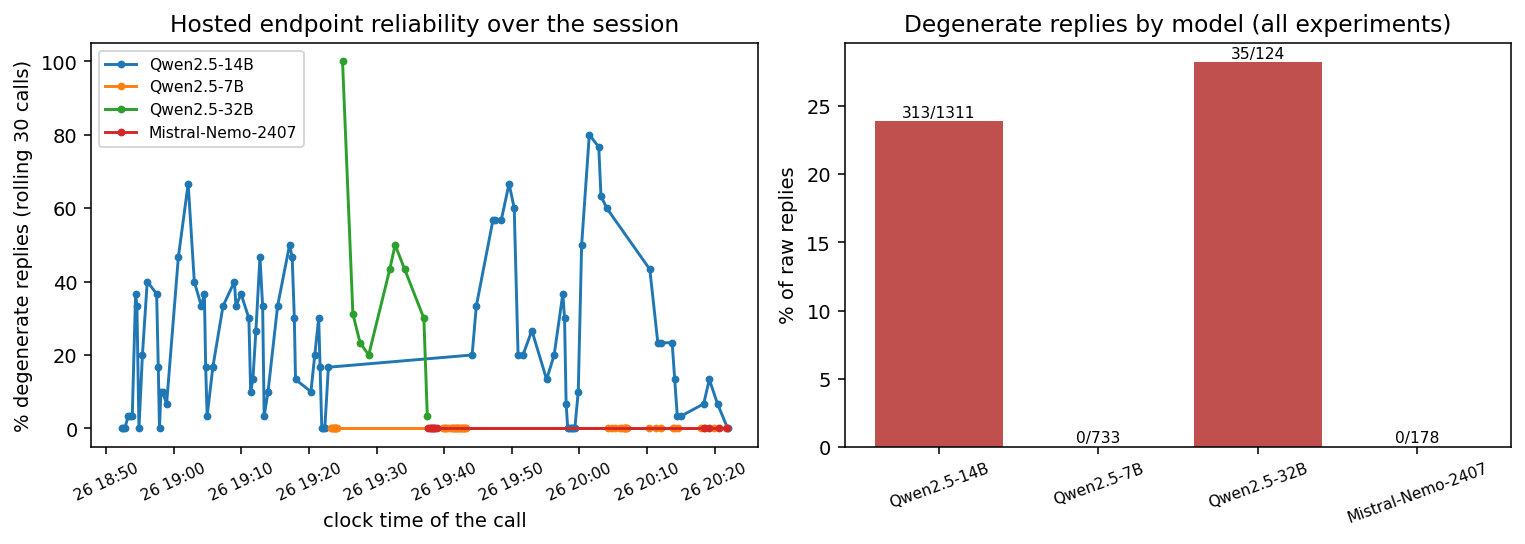
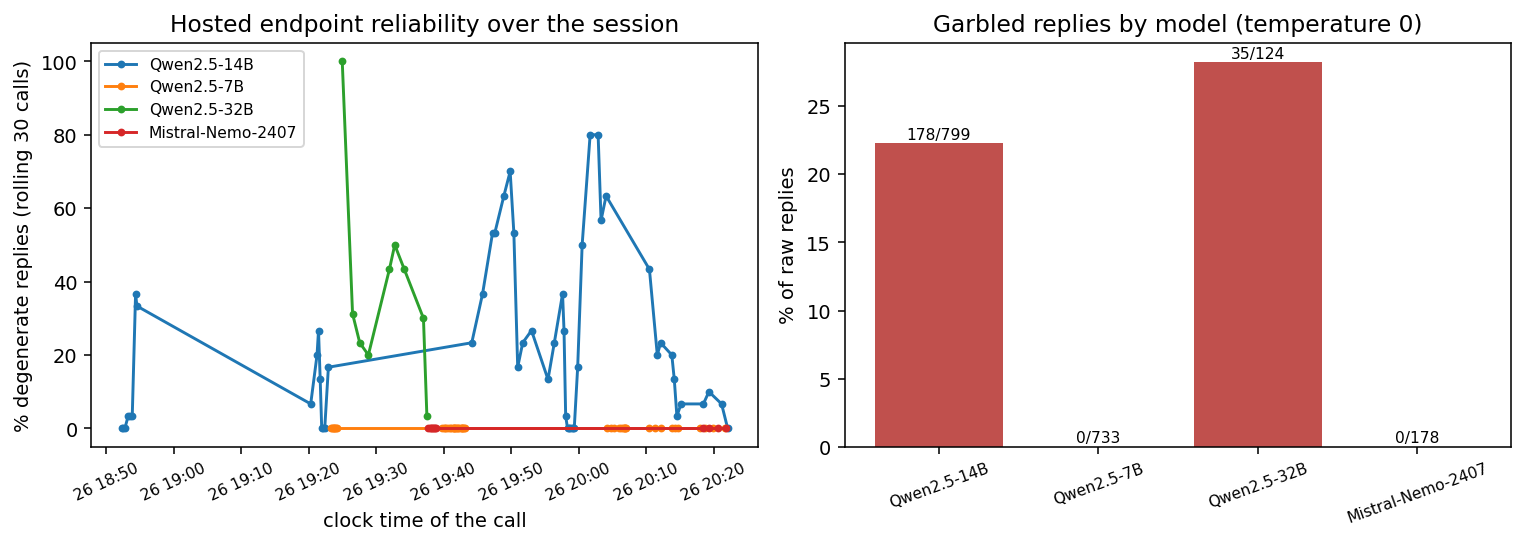
docs: say plainly that E6 overrode E5's pre-registered decision; reliability at temperature 0 only; update docs/17 and docs/18
- docs/21 Deviations item 8, Conclusion 2 and the TEAM.md row now state that the pre-registered rule selected 7B/short,
  that declining to recommend it (and keeping the 14B default, which itself fails E6's first criterion) is a judgement.
- The reliability figure and numbers use temperature-0 calls only (14B 178 of 799 garbled, not the pooled 313 of 1,311).
- docs/17 gets an AI-experiments section and current limitations; docs/18 lists the later work.

Claude-Session: https://claude.ai/code/session_011JEi6CEN7aiecgdZXxwiee

diff --git a/scripts/analyze_experiments.py b/scripts/analyze_experiments.py
@@ -432,7 +432,7 @@ def figures(summary, data):
 
             axes[1].text(i, 100 * timeline['overall'][n]['rate'] + 0.3, f"{timeline['overall'][n]['bad']}/{timeline['overall'][n]['seen']}", ha='center', fontsize=8)
 
-        axes[1].set_ylabel('% of raw replies'); axes[1].set_title('Degenerate replies by model (all experiments)')
+        axes[1].set_ylabel('% of raw replies'); axes[1].set_title('Garbled replies by model (temperature 0)')
 
         axes[1].tick_params(axis='x', labelrotation=20, labelsize=8)
 
@@ -539,28 +539,18 @@ def main():
     summary['invariant_verdicts_unchanged'] = invariant(all_calls) if all_calls else None
 
     if all_calls:
-
+        # Temperature 0 only: E1 also ran the 14B model at higher temperatures, which garble more, and pooling them
+        # would flatter the models that were only run at 0.
         by_model = defaultdict(list)
-
-        for r in sorted(all_calls, key=lambda r: r['ts']):
-
+        for r in sorted((r for r in all_calls if r['temperature'] == 0), key=lambda r: r['ts']):
             for t in r['raw_replies']:
-
                 by_model[r['model'].split('/')[-1].replace('-Instruct', '')].append((r['ts'], is_degenerate(t)))
-
         series, overall = {}, {}
-
         for m, pts in by_model.items():
-
             overall[m] = {'bad': sum(b for _, b in pts), 'seen': len(pts), 'rate': sum(b for _, b in pts) / len(pts)}
-
-            step = 15
-
-            series[m] = [(pts[i][0], statistics.mean(b for _, b in pts[max(0, i - 29):i + 1])) for i in range(0, len(pts), step)]
-
+            series[m] = [(pts[i][0], statistics.mean(b for _, b in pts[max(0, i - 29):i + 1])) for i in range(0, len(pts), 15)]
         data['timeline'] = {'series': series, 'overall': overall}
-
-        summary['degenerate_replies_by_model'] = overall
+        summary['degenerate_replies_by_model_temperature_0'] = overall
     template = {'note': 'Template answer = the engine explanation itself: it states every reason and adds nothing, so it is '
                         'useful by construction. It is the safe floor the model has to beat, not a competitor on accuracy.',
                 'cases': len(load_cases('tuning'))}

diff --git a/docs/21_Experiments.md b/docs/21_Experiments.md
@@ -84,6 +84,7 @@ Recorded as they happened. Items 1 to 5 were decided after seeing E1 to E4 and b
 5. **E3 ran on two models.** On Qwen2.5-7B, the model with the highest useful-answer rate in E2 (as registered), and additionally on Qwen2.5-14B (exploratory). E4 used the 7B model.
 6. **Garbled-text guard.** Added between E5 and E6 (see Results, E2). It is part of the production safety net, not of the experiment design.
 7. **Runner change.** After E4 the runner gained an interleaved schedule (configurations alternate call by call) because sequential runs on a drifting endpoint confound the comparison. E1 to E4 ran sequentially.
+8. **E5 selected a setting that we then declined to recommend.** The pre-registered rule selected Qwen2.5-7B with the `short` prompt, and rule 4 says a winner that meets rule 3 is recorded as the recommendation. We instead ran E6 and kept the default. The reason: that setting's answers restate the engine's sentence (6.5 words, 0% citing an evidence value), which the primary metric cannot penalize. Keeping the 14B default is a judgement, not a result of the pre-registered rule, and the default itself fails E6's first criterion.
 
 **E5 as it will be run.** Arms: the current default (Qwen2.5-14B, temperature 0, prompt v1.3.0) against Qwen2.5-7B, temperature 0, `short` prompt, which had the highest useful-answer rate on the tuning set and meets decision rule 3 there. Twelve fresh cases, **8 repeats** per arm (96 calls each, instead of the 5 planned, to narrow the intervals), interleaved. The default is only replaced, as a recommendation with a new frozen run and a version note, if the challenger beats it on the fresh cases by at least 10 percentage points of useful-answer rate with non-overlapping 95% Wilson intervals, and its injection resistance is not lower. Otherwise the default stays.
 
@@ -119,7 +120,7 @@ E5 confirmed the pre-registered winner on paper (Qwen2.5-7B with the `short` pro
 
 Other figures: `e1_outcomes.png`, `e1_rejection_reasons.png`, `e1_stability.png`, `e1_latency.png`, `e1_injection.png`, `e1_by_rule.png` (all in `docs/figures/`).
 
-- **Temperature 0 wins on every measure** and is the lowest level, so decision rules 1 and 2 both pick it: no change to the default. 0.2 is statistically indistinguishable from 0 on the primary metric; 0.5 to 1.0 are clearly worse on live rate (78 to 82% against 93%) and on the lenient metric.
+- **Temperature 0 wins on every quality measure** (median latency is flat, 3.1 to 3.9 s, and 0.2 is fractionally faster) and is the lowest level, so decision rules 1 and 2 both pick it: no change to the default. 0.2 is statistically indistinguishable from 0 on the primary metric; 0.5 to 1.0 are clearly worse on live rate (78 to 82% against 93%) and on the lenient metric.
 - **H2 holds.** Raising the temperature makes the model derail more often: the share of garbled raw replies rises from 10% at 0 to 32% at 0.5. It does not buy anything back.
 - **H1 is only half true.** Repeat stability falls steadily with temperature (word overlap 0.68 down to 0.33), but **temperature 0 is not deterministic on the hosted endpoint**: only 1 of 30 cases gave the same text on all three repeats, and the most common answer covered 51% of repeats. Do not promise reproducible wording from a hosted model, even at 0. Verdicts are unaffected because they never come from the model.
 - **Temperature does not change injection resistance.** About 3 or 4 of the roughly 55 to 63 judged raw replies followed an injected instruction at every level (93 to 95% resisted). The pipeline's checks caught them all; this measures the model alone.
@@ -139,7 +140,7 @@ Other figures: `e1_outcomes.png`, `e1_rejection_reasons.png`, `e1_stability.png`
 
 - **Bigger is not better here.** The 32B model was worst: 21 of its replies were not valid JSON and 3 calls timed out.
 - **The ranking depends on the omission check.** On the pre-registered check the 7B model leads by 12 points, but that check counts a paraphrase of an engine reason as an omission, and the 7B model rarely paraphrases: it copies. On the lenient check the 14B, Mistral and 7B are within 3 points of each other. Of 30 flagged 14B answers from E1 that we read, 23 were fine paraphrases (an assistant reading, not human scoring).
-- **The hosted 14B and 32B endpoints derail; 7B and Mistral did not.** 313 of 1,311 raw 14B replies and 35 of 124 raw 32B replies were garbled (mixed-language gibberish or a long run of one token), against 0 of 733 for 7B and 0 of 178 for Mistral.
+- **The hosted 14B and 32B endpoints derail; 7B and Mistral did not.** at temperature 0, 178 of 799 raw 14B replies (22%) and 35 of 124 raw 32B replies (28%) were garbled (mixed-language gibberish or a long run of one token), against 0 of 733 for 7B and 0 of 178 for Mistral. (Only temperature-0 calls are pooled here; the higher temperatures of E1 garble more, see E1.) The 14B rate itself varied a lot over the session: roughly 11% outside E3 and 43% during two of the three E3 runs.
 
 ![Reliability of the hosted models over the session](figures/reliability_degenerate_replies.png)
 
@@ -200,8 +201,8 @@ Throughput scales with workers up to 8 with no rate limiting or timeouts, and th
 
 ## Conclusions and recommendations
 
-1. **Keep temperature 0.** It is best or tied on every measure in E1 and has the lowest garble rate. Do not raise it for "more natural" wording.
-2. **Do not replace the default model or prompt on this evidence.** The formal winner (7B, short prompt) wins by restating the engine's sentence, and no fluent candidate passed the E6 rule. Which trade-off a reviewer prefers (a fluent explanation that sometimes derails and is caught, or a terse restatement that never does) is a product decision the metrics cannot make. Manual 0/1 scoring by a person (`outputs/llm_manual_scorecard.csv`) is the missing evidence.
+1. **Keep temperature 0.** It is best or tied on every quality measure in E1 and has the lowest garble rate. Do not raise it for "more natural" wording.
+2. **Do not replace the default model or prompt on this evidence. This is a judgement that overrides the pre-registered rule, and it should be read as one.** E5 met decision rule 3 (7B with the short prompt: +11.5 points, non-overlapping intervals, better injection resistance), and rule 4 then says to record that setting as the recommendation. We did not, because its answers restate the engine's sentence and cite no evidence value, and we added E6 to test that. The default itself fails E6's first criterion (3 garbled raw replies), so it stays as the status quo and not because it passed. The formal winner (7B, short prompt) wins by restating the engine's sentence, and no fluent candidate passed the E6 rule. Which trade-off a reviewer prefers (a fluent explanation that sometimes derails and is caught, or a terse restatement that never does) is a product decision the metrics cannot make. Manual 0/1 scoring by a person (`outputs/llm_manual_scorecard.csv`) is the missing evidence.
 3. **The model matters more than the temperature.** The 32B model was worst; the 7B and Mistral models never garbled. If the garble rate of the hosted 14B endpoint does not improve, Mistral-Nemo is the fluent alternative to test next, with a prompt aimed at naming a verification step (the worked example did that for the 7B model).
 4. **Hosted endpoints drift.** The same 14B configuration scored 78.7%, 76.9% and 59.8% useful in three runs about half an hour apart. Compare configurations by interleaving them, and never read a difference of a few points from separate runs.
 5. **The safety net earned its keep, and had one hole.** Every garbled reply that failed to parse was replaced by the template, and the finding never changed. The three that parsed got through; the guard now stops them.

diff --git a/docs/17_Evaluation_Report.md b/docs/17_Evaluation_Report.md
@@ -29,7 +29,7 @@ python scripts/run_llm_explanations.py                   # live model run (needs
 
 - **No split was held out from us.** Labels for development, validation and stress were all available and were used to check the engine. The rule logic was written from `docs/04_Rulebook.md`, the schema and the handbook's worked cases (`tests/test_worked_cases_equivalence.py` checks all 150 worked-case results), but we cannot claim the public splits were used only for validation.
 - **The mentor-held set was not available.** Every accuracy figure below is therefore a measure of agreement on data we developed against, not an estimate of performance on unseen claims.
-- Nothing was tuned on hidden labels, and no label file is read by the engine at run time. The AI explanation prompt was tuned only after inspecting live answers on the public exercise cases, and that change is unverified live (see AI evaluation).
+- Nothing was tuned on hidden labels, and no label file is read by the engine at run time. The AI explanation prompt was tuned only after inspecting live answers on the public exercise cases, and that change was later re-run live under prompt v1.3.0 (see AI evaluation) and compared across temperatures, models and prompts in `docs/21_Experiments.md`.
 
 ## Metrics
 
@@ -98,6 +98,26 @@ All of these passed `validate_explanation` and kept `needs_human_review: true`. 
 
 An independent oracle written only from the rulebook agrees with the engine on all 9,000 public results and on about 111,000 generated claims, and 123 hand-derived boundary cases pass. The exercise found and fixed real defects (precedence of a proven violation over a missing input in R009 and R013, exact money comparison, Python-version-dependent dates, runner and ingestion aborts, and the AI trust boundary). Method, findings, the readings adopted where the rulebook is silent, and what is still not covered are in `docs/19_Stress_Testing_and_Judging_Coverage.md`. The 600 public claims are unaffected: still 1.0 on all three splits.
 
+## AI experiments (temperature, model, prompt)
+
+
+
+This is the "AI ablations" part of the evaluation. Full design, data, figures, deviations and threats to validity are in `docs/21_Experiments.md`; raw replies are in `experiments/raw/`. Headlines, from 2,136 live calls on 2026-09-26:
+
+
+
+- No setting ever changed a deterministic finding (hash checked before and after every call).
+
+- **Temperature 0 is best** on every quality measure; higher temperatures make the model derail more (garbled raw replies 10% at 0, 32% at 0.5). Temperature 0 is still not deterministic on the hosted endpoint.
+
+- The model matters more than the temperature: Qwen2.5-7B and Mistral-Nemo never garbled, the 32B model was worst, the 14B default garbled about a fifth of its raw replies.
+
+- The pre-registered rule selected Qwen2.5-7B with a short prompt (100% "useful" on fresh cases), but its answers restate the engine's sentence and cite no evidence values. We did **not** adopt it, a judgement that overrides the rule, and the default stays. Human scoring is the missing evidence.
+
+- The experiments exposed a gap in the safety net (garbled but schema-valid explanations were accepted); the guard now rejects them.
+
+
+
 ## Human review and security
 
 Evidence is in the tests (364 passing) and the frozen runs:
@@ -117,5 +137,5 @@ Evidence is in the tests (364 passing) and the frozen runs:
 - FHIR ingestion is a teaching subset: one Claim per Bundle, no Encounter resource exists in the pack (the adapter reports any Encounter a bundle does carry, in `report['encounters']`, but the closed claim schema has no slot for it and no rule uses it), no terminology or profile validation, authorization details unavailable.
 - Audit log is tamper-evident, not immutable; reviewer identity is self-declared; no authentication.
 - The review page is an offline HTML file: decisions move through a downloaded JSONL, not a server.
-- AI explanation: unreliable provider, no human scoring yet, three known classes of unsupported statement (one unguarded), prompt v1.1.0 unverified live.
-- Next steps: human scoring of the 13 live answers with `outputs/llm_manual_scorecard.csv`; a live re-run under prompt v1.1.0; a rule-level guard for "asserts validity of an unevaluated field"; a server behind the review page with authenticated reviewers; external anchoring of the audit head hash.
+- AI explanation: the hosted endpoint is unreliable (at temperature 0 the 14B model garbled about a fifth of its raw replies; the safety net replaces them, and a garbled-text guard was added after three slipped through), no human scoring yet, and an answer can still add an unsupported "this line matches" claim about a field the finding does not mention, which neither check catches. Prompt v1.3.0 was verified live (recorded runs and `docs/21`).
+- Next steps: human scoring of the 13 live answers with `outputs/llm_manual_scorecard.csv`; manual 0/1 scoring of the E5 and E6 answers to settle the model and prompt choice (`docs/21`); a rule-level guard for "asserts validity of an unevaluated field"; a server behind the review page with authenticated reviewers; external anchoring of the audit head hash.

diff --git a/TEAM.md b/TEAM.md
@@ -92,12 +92,12 @@ We ran six experiments (2,136 live calls, 2026-09-26) on the Featherless.ai endp
 | Question | Answer | Evidence |
 |---|---|---|
 | Does any setting change a verdict? | **No.** The finding was hashed before and after each of 2,136 calls; identical everywhere | `experiments/summary.json` |
-| Which temperature? | **0.** Best on every measure; live answers fall from 93% to 78 to 82% at 0.5 to 1.0 and garbled replies rise from 10% to 32% | E1, ![E1](docs/figures/e1_useful_vs_temperature.png) |
+| Which temperature? | **0.** Best on every quality measure; live answers fall from 93% to 78 to 82% at 0.5 to 1.0 and garbled replies rise from 10% to 32% | E1, ![E1](docs/figures/e1_useful_vs_temperature.png) |
 | Is temperature 0 deterministic? | **No.** On the hosted 14B model only 1 of 30 cases repeated word for word; the wording still varies | E1 |
-| Which model? | Depends on what you value. The 7B model never garbles and is fastest (1.9 s), Mistral-Nemo never garbles and is fluent, the 14B default is fluent but derails in about a quarter of raw replies, the 32B model is worst | E2, ![reliability](docs/figures/reliability_degenerate_replies.png) |
+| Which model? | Depends on what you value. The 7B model never garbles and is fastest (1.9 s), Mistral-Nemo never garbles and is fluent, the 14B default is fluent but garbles about a fifth of its raw replies at temperature 0, the 32B model is worst | E2, ![reliability](docs/figures/reliability_degenerate_replies.png) |
 | Which prompt? | A worked example makes a small model write fuller explanations (names a next step in 92% of answers) but lowers its injection resistance to 88.9%; a short prompt makes it copy the template | E3 |
 | How many parallel calls? | 8. Throughput rises from 29 to 207 calls per minute with no rate limiting | E4 |
-| Should we switch the default? | **No.** The pre-registered winner (7B, short prompt, 100% useful) wins by restating the engine's own sentence; no fluent candidate passed the follow-up rule | E5, E6 |
+| Should we switch the default? | **No, and this overrides the pre-registered rule, so read it as a judgement.** The rule selected 7B with the short prompt (100% useful). We declined to recommend it because its answers restate the engine's own sentence and never cite an evidence value, added a follow-up experiment, and no fluent candidate passed that either. The default stays as the status quo, not because it passed: it fails the follow-up's first test (garbled replies) | E5, E6 |
 
 What the experiments changed in the product: the garbled-output guard. Three garbled explanations (valid JSON, correct citations) passed the schema and grounding checks and were shown as normal live answers. `check_grounding` now rejects text in another script, a replacement character, and long repetitions, tested against about 1,500 recorded answers.
 

diff --git a/docs/18_Contribution_Log.md b/docs/18_Contribution_Log.md
@@ -25,7 +25,7 @@ session models are not recorded in the repository. A separate "advisor" reviewer
 consulted at planning time and before large design choices, and the `superpowers` workflow
 skills (brainstorm -> written spec -> written plan -> execute) were used.
 
-**What the AI wrote, under the team lead's direction (2026-09-21 to 2026-09-23):**
+**What the AI wrote, under the team lead's direction (2026-09-21 to 2026-09-26):**
 
 | Area | AI-authored | Team-lead decisions that steered it |
 |---|---|---|
@@ -35,6 +35,10 @@ skills (brainstorm -> written spec -> written plan -> execute) were used.
 | Audit log, review workflow (`audit_log.py`, `review_workflow.py`) | all code, tests, design note | asked to finish review workflow, audit trail and reports |
 | Ingestion (`ingest.py`, `fhir_adapter.py`) | all code, tests, comparison script | supplied the four graded deliverables that ingestion must meet |
 | Evaluation report, this log | drafted | to be reviewed and completed by the team |
+| Stress testing (2026-09-24 to 2026-09-26): independent oracle, boundary table, differential and hostile-input suites | all code and tests | asked to recheck everything and stress the rules against what the judges score |
+| Security audit and red team (2026-09-26): OWASP mapping, fixes, replay and advisory checks | all code, tests, `docs/20` | asked for a security audit against the AI and cyber Top 10 lists and for a red-team run, then to fix what it found |
+| AI experiments (2026-09-26): runner, analysis, six experiments, garbled-output guard, `docs/21` | all code, analysis and text; ran 2,136 live calls with the team's key | asked for temperature and optimization experiments with variables, figures and documentation; the design and decision rules were written before the runs |
+| `TEAM.md` and `README.md` | drafted | asked for a team explainer of what was built and on what grounds, and a clean README; the team must fill in roles and names |
 
 **How AI output was checked:** every module has offline unit tests; the engine is compared
 with the organizers' labels on all three public splits and with the handbook's worked

diff --git a/README.md b/README.md
@@ -89,7 +89,7 @@ On Windows use `.venv\Scripts\python.exe`. Without an API key the AI step uses a
 |---|---|
 | Status accuracy, issue precision and recall, all 15 rules | **1.0** on the development, validation and stress splits (9,000 of 9,000 results) |
 | Independent oracle agreement (rules written again from the rulebook text alone) | 0 disagreements over about 111,000 generated claims and 123 hand-derived edge cases |
-| Tests | 346, all offline; suites also pass on Python 3.12 and 3.14 |
+| Tests | 364, all offline, on Python 3.10, 3.12 and 3.14 (last verified on all three at the commit named in `docs/19`) |
 | Live AI explanations (Qwen2.5-14B via Featherless.ai) | see `docs/21_Experiments.md` for temperature, model and prompt experiments |
 | Security | audited against the OWASP Top 10 for LLM Applications and the OWASP Top 10: `docs/20_Security_Audit.md` |
 
